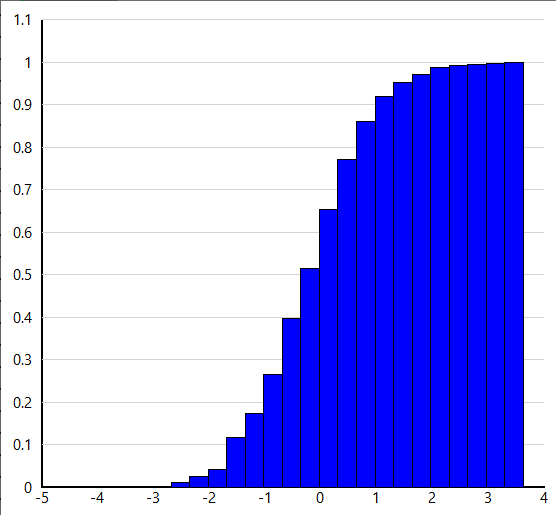
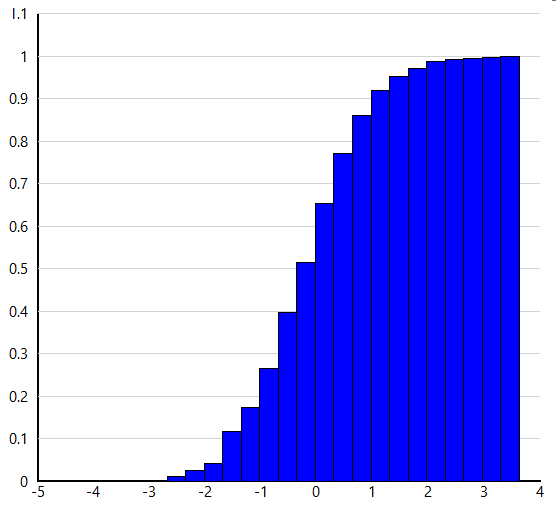
more info added to histogram

Changed region(s): [[0.0, 0.0, 1.0, 0.9783]]

diff --git a/manual/plotter/histogram/histogram.php b/manual/plotter/histogram/histogram.php
@@ -119,7 +119,6 @@
 
 
 
-<!-- ---------------------------------- Plot Simple Chart ---------------------------------  -->
 
 <h2 class="head_l2"  id="plottingsimplechart">Plotting Simple Chart</h2>
 
@@ -215,7 +214,10 @@
 <h3 class="head_l3"  id="Formatting_Series">Formatting Series</h3>
 
 
-<p>To format the histogram, right-click on any of the bins and then select "Format..." from the context-menu.</p>
+<p>
+    To format the histogram, right-click on any of the bins and 
+    then select "Format..." from the context-menu.
+</p>
 
 
 
@@ -227,9 +229,14 @@
 
 <img src="images/formathistogram_optionstab.png" alt="">
 
+<p>
+    If "Relative Frequency" or "Density" option is selected, then 
+    the chart changes mode to relative frequency or "Density". If 
+    "Density" is selected, then "Cumulative" option is disabled. 
+    Below chart is constructed using the cumulative and relative frequency options.
+</p>
 
-
-
+<img src="images/chart_singleseries_relativefreq_cumulative.png" alt="">
 
 
 <p>&nbsp;</p>
